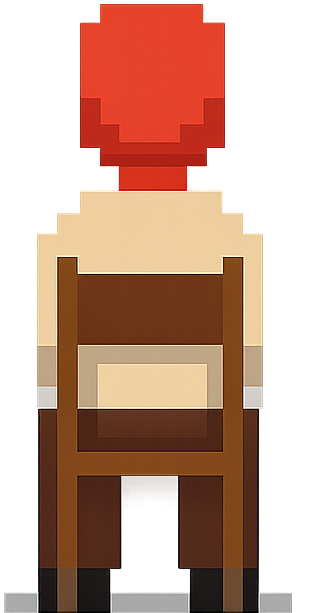
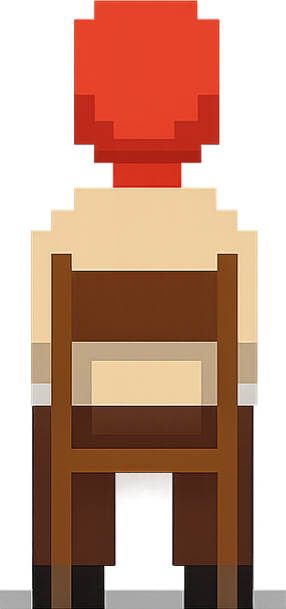
vylepseni zakazniku

diff --git a/helči_restaurace.py b/helči_restaurace.py
@@ -170,10 +170,10 @@ class Customer(pygame.sprite.Sprite):
     def __init__(self):
         super().__init__()
         self.images = [
-            pygame.transform.scale(pygame.image.load("customer1.png"), (100, 120)),
-            pygame.transform.scale(pygame.image.load("customer2.png"), (100, 120)),
-            pygame.transform.scale(pygame.image.load("customer3.png"), (100, 120)),
-            pygame.transform.scale(pygame.image.load("customer_angry.png"), (100, 120))]
+            pygame.transform.scale(pygame.image.load("customer1.png"), (70, 120)),
+            pygame.transform.scale(pygame.image.load("customer2.png"), (70, 120)),
+            pygame.transform.scale(pygame.image.load("customer3.png"), (70, 120)),
+            pygame.transform.scale(pygame.image.load("customer_angry.png"), (70, 120))]
         
         self.image = self.images[0]
         self.rect = self.image.get_rect()
